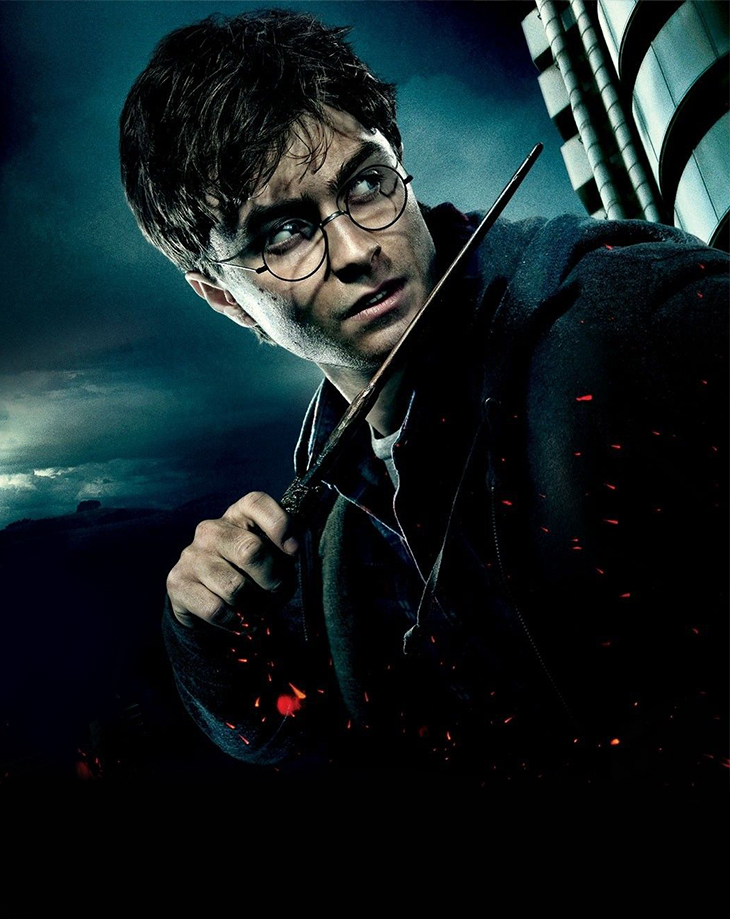
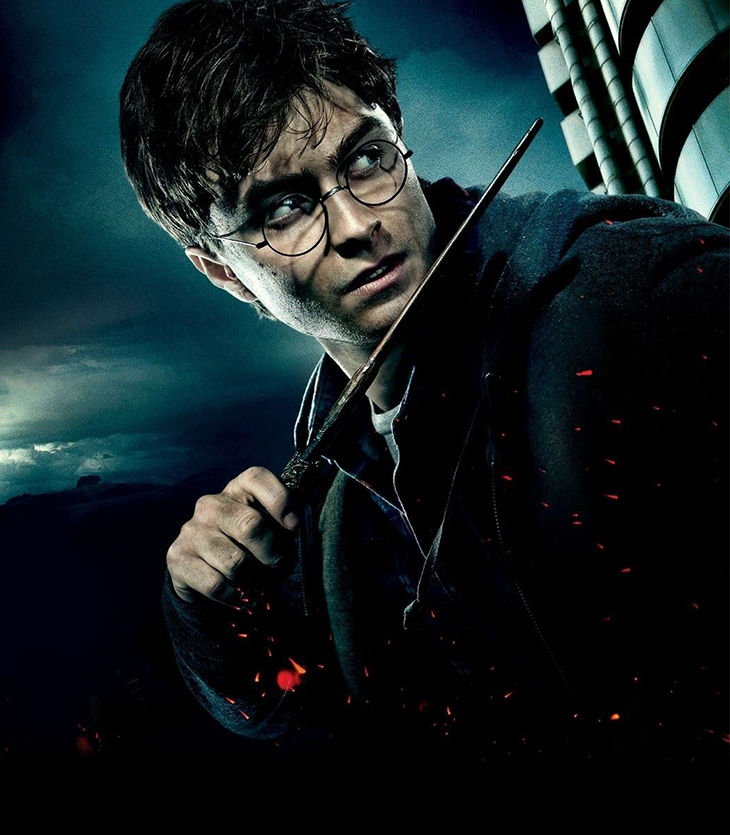
Responsive modification

diff --git a/Technical-page/style.css b/Technical-page/style.css
@@ -215,7 +215,7 @@ code{
 .overlay-one{
     position: absolute;
     width: 100%;
-    height: 100%;
+    height: 101%;
     background: rgb(1,0,69);
     background: linear-gradient(180deg, rgba(1,0,69,0) 0%, rgba(0,6,15,1) 100%);
 }
@@ -296,7 +296,7 @@ code{
 .overlay-two{
     position: absolute;
     width: 100%;
-    height: 100%;
+    height: 101%;
     background: rgb(0, 0, 0);
     background: linear-gradient(180deg, rgba(0, 0, 0, 0) 0%, rgb(0, 0, 0) 100%);
 }
@@ -504,13 +504,19 @@ code{
 
 
 /*/////////////MEDIA SCREEN/////////////*/
+/*/////////////Desktop/////////////*/
+
  /* Large devices (laptops/desktops, 1024px and up) */
  @media only screen and (max-width: 1024px) {
+    .logo{
+        height: 220px;
+    }
     .logo a .logo-1-w{
         width: 75%;
     }
     .menu .movies{
         padding: 0px 40px 15px;
+        font-size: 0.7rem;
     }
     .logo-2{
         margin-top: 25%;
@@ -525,11 +531,11 @@ code{
         padding-bottom: 0px;
     }
     .text-container .text-intro{
-        width: 80%;
+        width: 90%;
         font-size: 0.8rem;
     }
     .text-container .top-autor{
-        width: 80%;
+        width: 90%;
         font-size: 0.7rem;
     }
     .Movie-number p{
@@ -543,6 +549,7 @@ code{
     }
     .image-movie{
         height: 250px;
+        margin-bottom: 25px;
     }
     .trailer-image{
         height: 80px;
@@ -565,6 +572,12 @@ code{
     }
     .resumen-text{
         padding: 0px 60px;
+    }
+    .image-movie{
+        background-position-y: -73px;
+    }
+    .image-movie.two{
+        background-position-y: -145px;
     }
 }
  /* Large devices (laptops/desktops, 992px and up) */
@@ -657,16 +670,24 @@ code{
     .image-movie.two{
         background-position-y: -135px;
     }
-} 
- /* Medium devices (landscape tablets, 768px and up) */
+}
+
+/*/////////////MEDIA SCREEN/////////////*/
+/*/////////////Tablets/////////////*/
+
+ /* Medium devices (landscape tablets, 768px) */
  @media only screen and (max-width: 768px) {
      html{
-         scroll-padding-top: 112px;
+         scroll-padding-top: 95px;
+     }
+     h1, h2, h3, h4, h5, h6, p{
+        margin-bottom: 5px;
      }
     .container.nav{
         width: 100%;
         height: 55px;
         z-index: 1200;
+        overflow: initial;
     }
     .container.nav row{
         width: 100%;
@@ -675,19 +696,19 @@ code{
         position: relative;
         background-color: #000816;
         justify-content: center;
-        height: 75px;
+        height: 60px;
         z-index: 1500;
     }
     .logo a{
-        width: 35%;
+        width: 30%;
         z-index: 1500;
     }
     #toggle p{
-        font-size: 0.9rem;
+        font-size: 0.8rem;
     }
     .container.content{
         width: 100%;
-        margin-top: 112px;
+        margin-top: 95px;
     }
     /*////////Mobile Menu////////*/
     #toggle{
@@ -718,24 +739,21 @@ code{
         margin-top: 0;
     }
     /*End Mobile Menu*/
-    .h-bg-ipad{
-        display: flex;
-    }
-    .h-bg{
-        display: none;
-    }
     .social-container{
-        top: 20%;
+        top: 35%;
+    }
+    .Intro-tittle{
+        padding: 10px 40px;
     }
     .text-container{
-        justify-content: center;
+        justify-content: flex-end;
     }
     .text-container .logo-main{
-        width: 100%;
+        width: 80%;
     }
     .text-container .text-intro{
-        font-size: 1rem;
-        padding: 30px 40px;
+        font-size: 0.7rem;
+        padding: 10px 40px;
         width: 80%;
     }
     .text-container .top-autor{
@@ -745,22 +763,105 @@ code{
     .Movie-number p{
         padding: 20px 40px;
     }
+    .image-movie{
+        margin-bottom: 30px;
+    }
     .calification-container{
         padding: 0px 40px;
     }
 } 
-  /* Small devices (portrait tablets and large phones, 600px and up) */
-  @media only screen and (max-width: 600px) {
+@media only screen and (max-width: 768px) and (orientation: portrait){
+    html{
+        scroll-padding-top: 123px;
+    }
+    .container.nav{
+        height: auto;
+    }
+    .logo{
+        height: 85px;
+    }
+    .logo a{
+        width: 37%;
+    }
+    #toggle p{
+        font-size: 1rem;
+    }
+    .container.content{
+        margin-top: 123px;
+    }
+    .text-container{
+        justify-content: center;
+        padding-top: 30%;
+    }
     .Intro-tittle{
-        padding: 10px 40px;
+        top: 48%;
+    }
+    .social-container{
+        top: 20%;
+    }
+    .h-bg-ipad{
+        display: flex;
+    }
+    .h-bg{
+        display: none;
+    }
+    .text-container .logo-main{
+        width: 100%;
+        padding: 20px 60px;
     }
     .text-container .text-intro{
-        width: 70%;
-        font-size: 0.6rem;
+        font-size: 0.9rem;
+    }
+    .resumen-text{
+        font-size: 0.8rem;
+    }
+    .image-movie{
+        height: 280px;
+    }
+    .image-movie.two{
+        background-position-y: -120px;
+    }
+    .image-movie.three{
+        background-position-y: -22px;
+    }
+}
+
+  /* Small devices (portrait tablets and large phones, 600px and up) */
+  @media only screen and (max-width: 600px) {
+    html{
+        scroll-padding-top: 123px;
+    }
+    .logo{
+        height: 75px;
+    }
+    .logo a{
+        width: 40%;
+    }
+    #toggle p{
+        font-size: 0.9rem;
+    }
+    #navbar.active{
+        top: 100%;
+    }
+    .menu .movies{
+        font-size: 0.8rem;
+    }
+    .container.content{
+        margin-top: 112px;
+    }
+    .Intro-tittle{
+        padding: 10px 30px;
+    }
+    .text-container{
+        padding-top: 35%;
+    }
+    .text-container .text-intro{
+        width: 80%;
+        font-size: 0.8rem;
     }
     .text-container .top-autor{
-        width: 30%;
-        font-size: 0.6rem;
+        width: 80%;
+        font-size: 0.7rem;
     }
     .Movie-number p{
         font-size: 1.2rem;
@@ -775,18 +876,21 @@ code{
         font-size: 0.8rem;
     }
     .minutes p{
-        font-size: 0.6rem;
+        font-size: 0.7rem;
     }
     .text-box{
-        font-size: 0.6rem;
+        font-size: 0.7rem;
     }
     .resumen-text{
-        font-size: 0.6rem;
+        font-size: 0.7rem;
     }
     .image-movie.two{
         background-position-y: -100px;
     }
 }
+
+/*/////////////MEDIA SCREEN/////////////*/
+/*/////////////Mobile/////////////*/
 
 /* Extra small devices (phones, 426px and down) */
 @media only screen and (max-width: 426px) {
